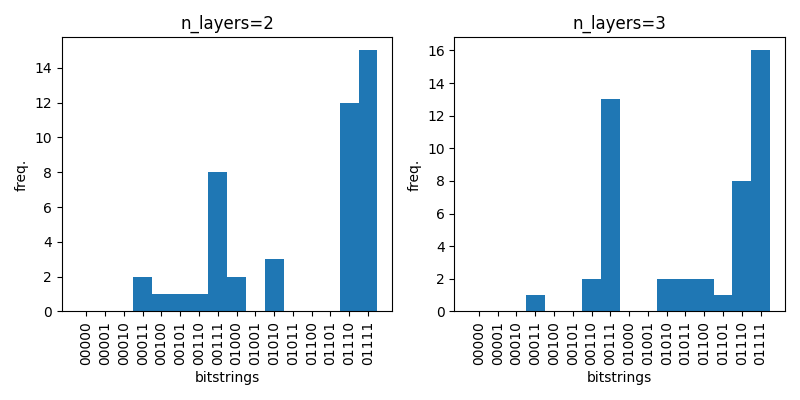
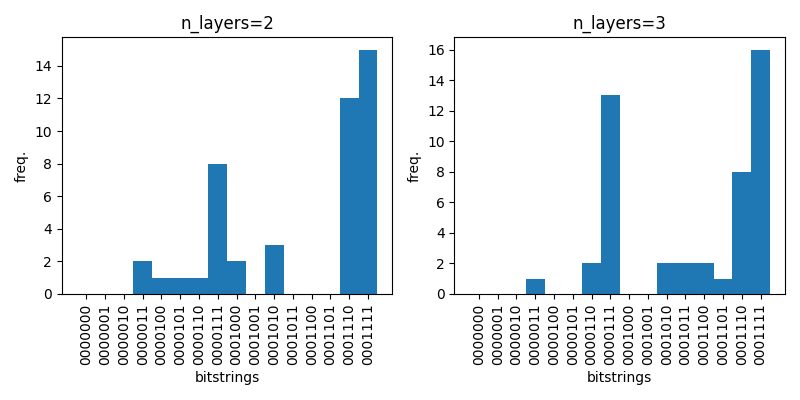
updates

diff --git a/drafts/qaoa_large_no_vqc.py b/drafts/qaoa_large_no_vqc.py
@@ -80,7 +80,7 @@ def qaoa_maxcut(n_layers=1):
 
     # sample measured bitstrings 100 times
     bit_strings = []
-    n_samples = 1000
+    n_samples = 100000
     for i in range(0, n_samples):
         bit_strings.append(bitstring_to_int(circuit(params[0], params[1], edge=None, n_layers=n_layers)))
 
@@ -104,7 +104,7 @@ xticks = range(0, 16)
 xtick_labels = list(map(lambda x: format(x, "07b"), xticks))
 bins = np.arange(0, 17) - 0.5
 
-fig, (ax1, ax2) = plt.subplots(1, 2, figsize=(8, 4))
+fig, (ax1, ax2) = plt.subplots(1, 2, figsize=(10, 4))
 plt.subplot(1, 2, 1)
 plt.title("n_layers=2")
 plt.xlabel("bitstrings")

diff --git a/drafts/qaoa_large_qiskit.py b/drafts/qaoa_large_qiskit.py
@@ -14,7 +14,6 @@ from qiskit.utils import algorithm_globals, QuantumInstance
 from qiskit_optimization.algorithms import MinimumEigenOptimizer
 from qiskit_optimization.problems import QuadraticProgram
 
-# Generating a graph of 4 nodes
 
 n = 7  # Number of nodes in graph
 G = nx.Graph()
